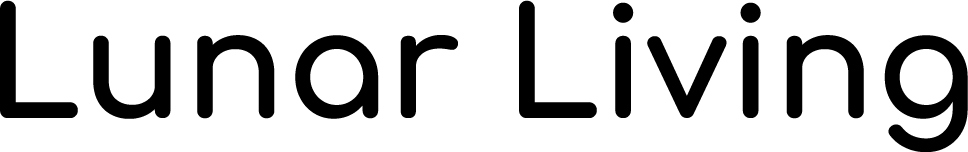
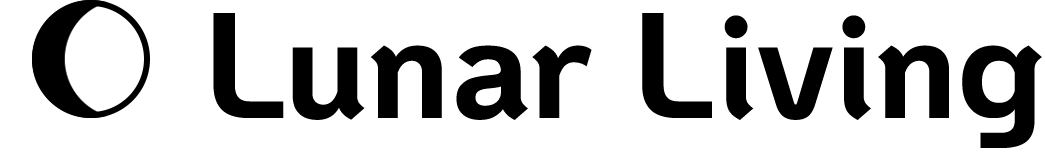
updated title image and navbar styling

diff --git a/css/style.css b/css/style.css
@@ -133,6 +133,7 @@ a {
     width: 400px;
   }
 }
+
 /* profile.php */
 #spacer-profile {
   height: 140px;
@@ -148,49 +149,7 @@ a {
     width: 400px;
   }
 }
-/* navbarscapes */
-.navbar {
-  background-color: rgba(
-    223,
-    223,
-    224,
-    0.8
-  ) !important; /* this color in hex (without alpha) is #dfdfe0 */
-}
-.title {
-  width: 120px;
-  height: auto;
-}
-@media only screen and (min-width: 700px) {
-  .title {
-    width: 200px;
-    height: auto;
-  }
-}
-.nav-link {
-  color: gray !important;
-}
-.current-lunar-living-nav-link {
-  color: black !important;
-}
-.footer {
-  position: fixed;
-  bottom: 0;
-  width: 100%;
-  height: 60px;
-  line-height: 60px;
-  background-color: rgba(
-    223,
-    223,
-    224,
-    0.8
-  ); /* this color in hex (without alpha) is #dfdfe0 */
-}
-.footer > .container {
-  padding-right: 15px;
-  padding-left: 15px;
-  color: black;
-}
+
 /* index.php */
 /* image modal (ref.: https://www.w3schools.com/howto/tryit.asp?filename=tryhow_css_modal_img) */
 .hover-image {
@@ -1361,4 +1320,63 @@ label {
 #createevent-description-input {
 	width: 100%;
 	height: 10em;
+}
+
+/* navbarscapes */
+.navbar {
+  background-color: rgba(
+    223,
+    223,
+    224,
+    0.8
+  ) !important; /* this color in hex (without alpha) is #dfdfe0 */
+}
+.title {
+  width: 120px;
+  height: auto;
+}
+@media only screen and (min-width: 700px) {
+  .title {
+    width: 200px;
+    height: auto;
+  }
+}
+.nav-link {
+  color: gray;
+}
+.current-lunar-living-nav-link {
+  color: black;
+}
+.footer {
+  position: fixed;
+  bottom: 0;
+  width: 100%;
+  height: 60px;
+  line-height: 60px;
+  background-color: rgba(
+    223,
+    223,
+    224,
+    0.8
+  ); /* this color in hex (without alpha) is #dfdfe0 */
+}
+.footer > .container {
+  padding-right: 15px;
+  padding-left: 15px;
+  color: black;
+}
+.nav-item {
+	font-family: "KoHo", sans-serif;
+	font-weight: bold;
+}
+.nav-link:hover {
+    color: #2196f3 !important;
+}
+.login-link {
+	font-family: "KoHo", sans-serif;
+	font-weight: bold;
+}
+.login-link:hover {
+	text-decoration: none;
+    color: #2196f3 !important;
 }
